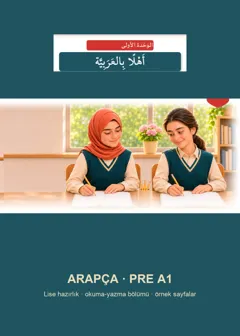
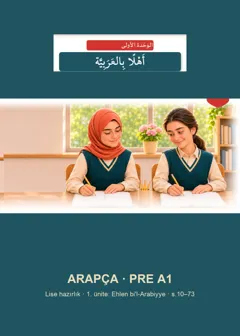
Kitap tamam: s.10–73, denge düzeltmesi (3 resim), kapak alt yazısı

Changed region(s): [[0.175, 0.8631, 0.8167, 0.8929]]

diff --git a/ses-metni.js b/ses-metni.js
@@ -304,7 +304,7 @@ window.SES={
   "label": "صَوْت 26",
   "script": [
    "د: د ـد ـد — يَد",
-   "ذ: ذ ـذ ـذ — تِلْميذ",
+   "ذ: ذ ـذ ـذ — تِلْميذَة",
    "ر: ر ـر ـر — بُرْتُقال",
    "ز: ز ـز ـز — زَهْرَة",
    "س: سـ ـسـ ـس — مَدْرَسَة",
